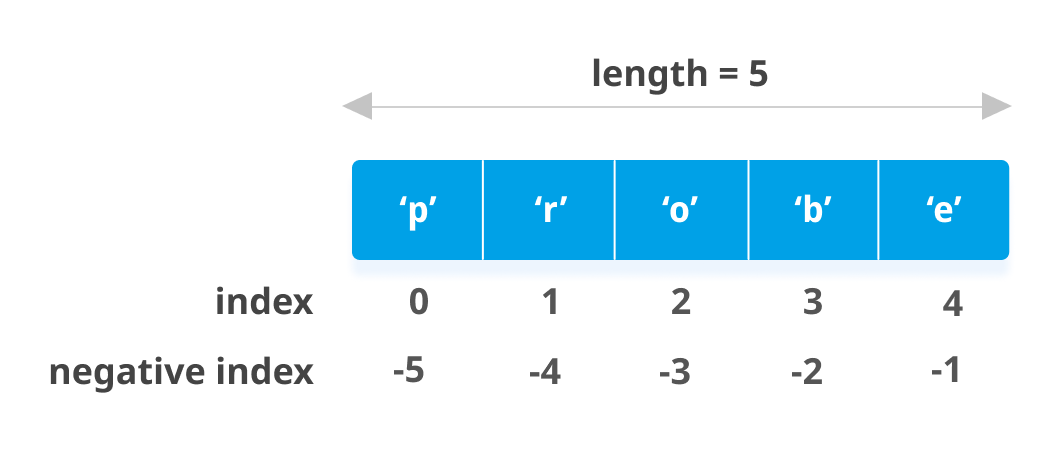
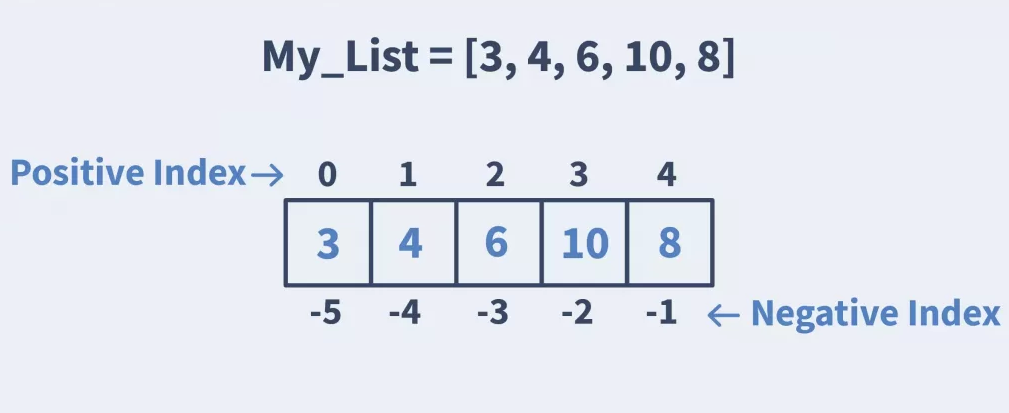
update

diff --git a/01Basic.md b/01Basic.md
@@ -134,9 +134,11 @@ Lists are very similar to arrays. They can contain any type of variable, and the
 
 ```
 mylist = []
-mylist.append(1)
-mylist.append(2)
 mylist.append(3)
+mylist.append(4)
+mylist.append(6)
+mylist.append(10)
+mylist.append(8)
 print(mylist[0]) # prints 1
 print(mylist[1]) # prints 2
 print(mylist[2]) # prints 3
